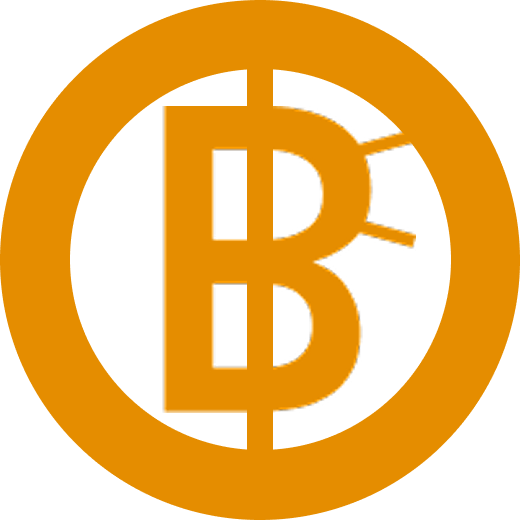
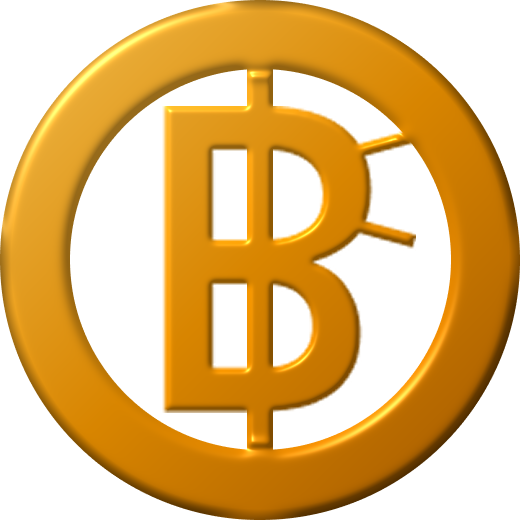
feat: 랜딩페이지 카드 수정 + 코인 수정

diff --git a/src/components/landing/FeatureCards.tsx b/src/components/landing/FeatureCards.tsx
@@ -69,14 +69,12 @@ const cards = [
     x: 0.6,
     rotate: 8,
     y: 34,
-    title: "다양한 포맷",
+    title: "팀 협업",
     description: (
       <>
-        영상, 전자건강기록, 유전체학,
+        연구 팀원을 모집하고
         <br />
-        임상 노트 등 다양한 의료
-        <br />
-        데이터 유형을 지원합니다.
+        초대와 역할 관리, 팀 코멘트로 프로젝트를 함께 진행하세요.
       </>
     ),
   },
@@ -277,22 +275,29 @@ export default function FeatureCards() {
                   }
                 `}
               >
-                {/* =========================
-                    앞면
-                ========================== */}
+                {/* 앞면: 어두운 배경 + 로고 */}
                 <div
                   className="
-                    absolute
-                    inset-0
-                    overflow-hidden
-                    rounded-3xl
-                    [backface-visibility:hidden]
-                  "
+    absolute
+    inset-0
+    flex
+    items-center
+    justify-center
+    overflow-hidden
+    rounded-3xl
+    border
+    border-[#2F4A41]
+    bg-[#172F29]
+    shadow-[0_8px_30px_rgba(0,0,0,0.25)]
+    dark:border-white/15
+    dark:bg-[#1F3A32]
+    [backface-visibility:hidden]
+  "
                 >
                   <img
-                    src="/card.png"
+                    src="/logo1.png"
                     alt=""
-                    className="block h-full w-full object-fill"
+                    className="w-[35px] object-contain"
                   />
                 </div>
 
